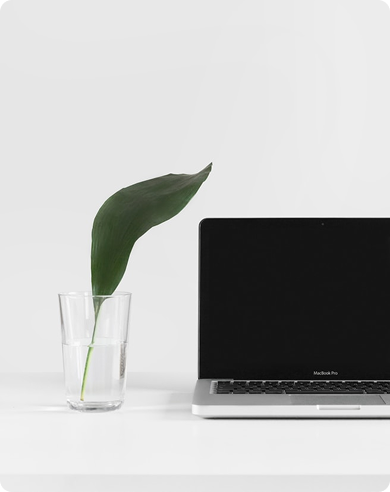
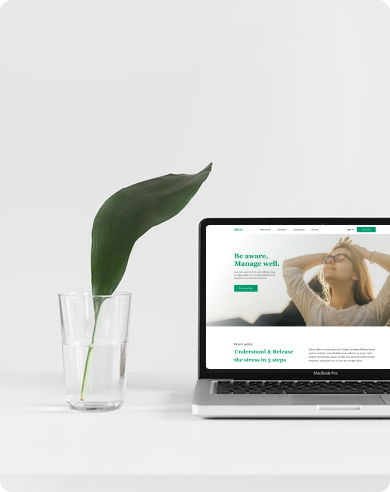
section steps

Changed region(s): [[0.5231, 0.4573, 1.0, 0.7622]]

diff --git a/css/styles.css b/css/styles.css
@@ -37,6 +37,7 @@ body{
     position: -webkit-sticky;
     top: 0;
     background-color: #fff;
+    z-index: 1000;
 }
 .nav__inner {
     display: flex;
@@ -134,8 +135,132 @@ body{
 
 @media screen and (max-width: 768px){
     .header {
-        background-image: none;
         min-height: auto;
         padding-bottom: 170px;
     }
+}
+
+@media screen and (max-width: 576px){
+    .header{
+        background-position: left;
+        padding: 150px 0;
+    }
+}
+
+/* Steps */
+
+.steps {
+}
+.steps__top {
+    display: flex;
+    margin-top: 163px;
+    justify-content: space-between;
+    margin-bottom: 79px;
+}
+
+.top__title {
+    max-width: 584px;
+}
+
+.top__title p{
+    font-weight: 600;
+    font-size: 24px;
+    line-height: 1.57em;
+    color: #424242;
+    
+}
+
+.top__title h2{
+    font-family: 'Georgia', serif;
+    font-weight: 700;
+    font-size: 50px;
+    line-height: 1.57em;
+    color: #01996d;
+}
+.text-p {
+    font-size: 20px;
+    line-height: 1.5em;
+    color: #424242;
+}
+
+.steps__top > p {
+    max-width: 649px;
+    padding-top: 60px;
+    letter-spacing: 0.005em;
+}
+
+.steps__bottom {
+    display: flex;
+    gap: 95px;
+}
+.bottom-steps-card {
+    max-width: 392px;
+    position: relative;
+    padding-top: 112px;    
+}
+
+.bottom-steps-card p{
+    margin-bottom: 59px;
+    letter-spacing: 0.01em;
+}
+
+.card-title {
+    font-family: 'Georgia', serif;
+    font-size: 30px;
+    color: #000;
+    margin-bottom: 59px;
+}
+
+
+
+
+.card-num {
+    position: absolute;
+    font-family: Georgia, 'Times New Roman', Times, serif;
+    font-size: 150px;
+    font-weight: normal;
+    color: var(--main-color);
+    opacity: 0.2;
+    top: 0;
+}
+
+.bottom-steps-card:nth-child(1) .card-title{
+    padding-left: 88px;
+}
+
+.bottom-steps-card:nth-child(2) {
+    top: 286px;
+}
+
+.bottom-steps-card:nth-child(2) .card-title{
+    padding-left: 78px;
+}
+
+.bottom-steps-card:nth-child(2) p{
+    margin-bottom: 40px;
+}
+
+.bottom-steps-card:nth-child(2) {
+    top: 286px;
+}
+
+.bottom-steps-card:nth-child(3) {
+    top: 55px;
+}
+
+
+.bottom-steps-card:nth-child(3) .card-title{
+    padding-left: 129px;
+    margin-bottom: 51px;
+}
+
+.bottom-steps-card:nth-child(3) p{
+    margin-bottom: 47px;
+    width: 420px;
+    letter-spacing: 0.002em;
+}
+
+.bottom-steps-card:nth-child(3) img{
+    border-radius: 12px;
+    padding-left: 4px;
 }

diff --git a/index.html b/index.html
@@ -35,6 +35,39 @@
             <button class="btn header_btn">Find Your Way</button>
         </div>
     </header>
+
+    <section class="steps">
+        <div class="container">
+            <div class="steps__top">
+                <div class="top__title">
+                    <p>How it works</p>
+                    <h2>Understand & Release the stress in 3 steps</h2>
+                </div>
+                <p class="text-p">Alivio offers as many journals it takes, tackling different areas such as anxiety, overwhelmedness, sadness, or anger, and a variety of personal causes, to help you become aware of your emotions, and guide you in how to manage stress.</p>
+            </div>
+            <div class="steps__bottom">
+                <div class="bottom-steps-card">
+                    <h3 class="card-num">01</h3>
+                    <h4 class="card-title">Personalize</h4>
+                    <p class="text-p">Answer a quick survey about how you express yourself, what causes you stress, and what area would you like to work on. This way, we can fully personalize your journal!</p>
+                    <img src="img/card_one.png" alt="card_one">
+                </div>
+                <div class="bottom-steps-card">
+                    <h3 class="card-num">02</h3>
+                    <h4 class="card-title">Write & Understand</h4>
+                    <p class="text-p">Write, draw, reflect, understand. Alivio will guide you through the prompts and will help you manage your stress!</p>
+                    <img src="img/card_two.png" alt="card_one">
+                </div>
+                <div class="bottom-steps-card">
+                    <h3 class="card-num">03</h3>
+                    <h4 class="card-title">Alivio!</h4>
+                    <p class="text-p">Now you are aware, and have a way to manage and overcome your own stress. <br> What are you waiting for? Alivio today!</p>
+                    <img src="img/card_three.png" alt="card_one">
+                </div>
+            </div>
+        </div>
+    </section>
+
     <!-- Footer / Подавал сайта -->
     <footer class="footer">
         
